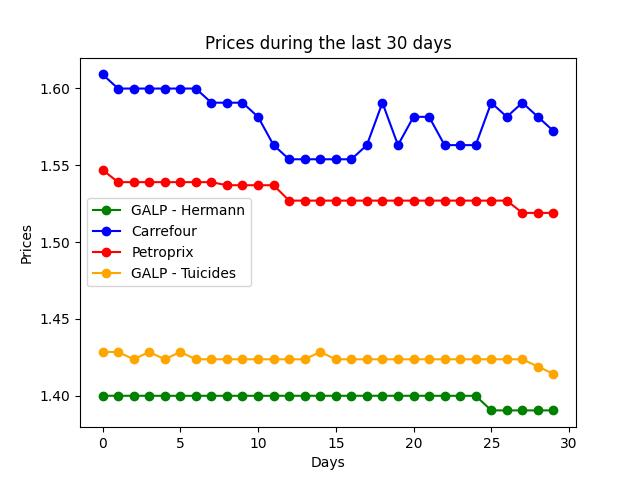
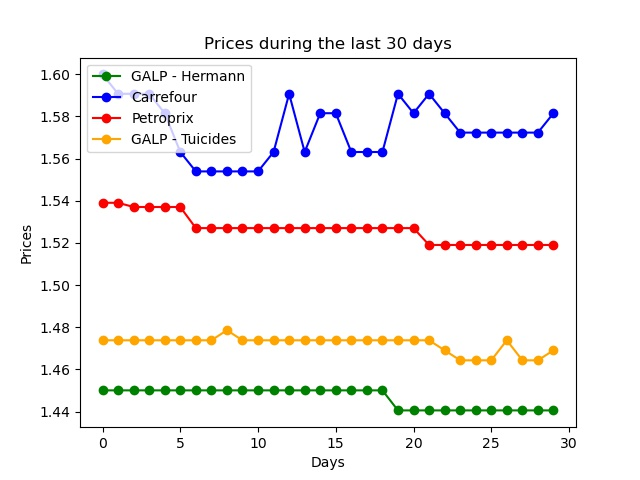
Add scripts to compute the cheaper hour and some improvements

diff --git a/calcular_la_hora_con_el_menor_precio.py b/calcular_la_hora_con_el_menor_precio.py
@@ -1,0 +1,113 @@
+import time
+from datetime import datetime
+import urllib
+import csv
+from tempfile import NamedTemporaryFile
+import shutil
+import requests
+
+def download_data():
+    ID_MUNICIPIO = 4521
+    ID_PRODUCTO = 1
+    URL = f"https://sedeaplicaciones.minetur.gob.es/ServiciosRESTCarburantes/PreciosCarburantes/EstacionesTerrestres/FiltroMunicipioProducto/{ID_MUNICIPIO}/{ID_PRODUCTO}"
+
+    urllib.request.urlretrieve(URL, "Data/gasoline.txt")
+
+    print(("Donwloading data..."))
+
+    file = open("Data/gasoline.txt", encoding="utf-8").read()
+    #encoding="mcbs" if running on windows
+
+    reintentos = 10
+    while '"ListaEESSPrecio":[]' in file and reintentos > 0:
+        print("[WARN] Los datos están vacios, descargando de nuevo...")
+        time.sleep(60)
+        urllib.request.urlretrieve(URL, "Data/gasoline.txt")
+        file = open("Data/gasoline.txt", encoding="utf-8").read()
+        reintentos -= 1
+
+    list_of_prices = file.split("{")
+
+    date = list_of_prices[1].split("\"")[3].replace("\\", "").split(" ")[0]
+
+    results = []
+
+    for x in list_of_prices[2:]:
+        data = x.replace("\"", "")\
+                .replace("},", "")\
+                .replace("\\", "")\
+                .replace("Ã³", "o")\
+                .replace("Ã¡","a")\
+                .replace("","")\
+                .replace("ó","o")\
+                .replace("Ã","A")\
+                .split("}],")[0]\
+                .split(",")
+        dictionary = {}
+        for i in range(len(data)):
+            item = data[i]
+            if "PrecioProducto" in item:
+                item = ".".join([item, data[i+1]])
+            key_value = item.split(":")
+            key = key_value[0]
+            if len(key_value) > 1:
+                value = "".join(key_value[1:])
+            if key == "Direccion" or key == "Rotulo":
+                dictionary[key] = value
+            elif key == "PrecioProducto":
+                dictionary[key] = float(value)
+        if dictionary:
+            results.append(dictionary)
+
+    return results, date
+
+
+def update_row_in_csv(hora, price, dia, headers, filename, nombre):
+    tempfile = NamedTemporaryFile(mode='w', delete=False, newline="")
+
+    with open(filename, 'r') as csvfile, tempfile:
+        reader = csv.DictReader(csvfile, fieldnames=headers)
+        writer = csv.DictWriter(tempfile, fieldnames=headers)
+        writer.writeheader()
+
+        for row in reader:
+            if (row[nombre] != nombre):
+                if row[nombre] == dia:
+                    row[hora] = price
+                    writer.writerow(row)
+                else:
+                    writer.writerow(row)
+
+    shutil.move(tempfile.name, filename)
+
+
+def compute_cheaper_hour(rotulo, direccion, nombre):
+    results, dia = download_data()
+    precio = round(float([item['PrecioProducto'] for item in results if
+                          (item['Rotulo'] == rotulo and item["Direccion"] == direccion)][0]), 3)
+
+    hora = datetime.strftime(datetime.today(), "%H")
+    minuto = "00" if int(datetime.today().minute) < 30 else "30"
+    fecha = "{}.{}".format(hora, minuto)
+
+    filename = "Data/cheaper_hour_{}.csv".format(nombre)
+
+    row_template = {
+        nombre: "", "00.00": "", "00.30": "", "01.00": "", "01.30": "", "02.00": "", "02.30": "", "03.00": "",
+        "04.30": "", "05.00": "", "06.30": "", "07.00": "", "07.30": "", "08.00": "", "08.30": "", "09.00": "",
+        "09.30": "", "10.00": "", "10.30": "", "11.00": "", "12.30": "", "13.00": "", "13.30": "", "14.00": "",
+        "14.30": "", "15.00": "", "15.30": "", "16.00": "", "16.30": "", "17.00": "", "17.30": "", "18.00": "",
+        "18.30": "", "19.00": "", "19.30": "", "20.00": "", "21.30": "", "22.00": "", "22.30": "", "23.00": "",
+        "23.30": ""}
+    headers = list(row_template.keys())
+    if hora == "00" and int(datetime.today().minute) < 30:
+        with open(filename, "w") as csvfile:
+            row = row_template
+            row[nombre] = dia
+            row[fecha] = precio
+            csvfile.writerow(row)
+    else:
+        update_row_in_csv(fecha, precio, dia, headers, filename, nombre)
+
+compute_cheaper_hour(rotulo='GALP', direccion='CALLE TUICIDES', nombre='tucidides')
+compute_cheaper_hour(rotulo='GALP', direccion='CALLE HERMAN HESSE', nombre='herman_hesse')

diff --git a/graphic_comparing_some_petrol_station.py b/graphic_comparing_some_petrol_station.py
@@ -3,9 +3,12 @@ import matplotlib.pyplot as plt
 # This script will be executed each day.
 print("[INFO] Updating the graphic of the comparison between Galp Tucidides, Galp Hernan Hesse, Carrefour and Petropix prices.")
 
-def compute_galp_price(original_price):
-    # Estamos suponiendo que estamos echando gasolina del 1 al 5 de cada mes donde Mapfre nos devuelve un 5%.
-    return original_price*0.95 - 0.1
+def compute_galp_price(date, original_price):
+    # Estamos suponiendo que estamos echando gasolina del 1 al 5 de cada mes donde Mapfre nos devuelve un 5%, y sino sería un 3%.
+    # A eso, habría que añadirle los 5 cent de descuento que ofrece GALP.
+    day = int(date[0:2])
+    discount = 0.95 if day <= 5 else 0.97
+    return original_price*discount - 0.05
 
 def load_data():
     galp_tuicides = []
@@ -17,8 +20,8 @@ def load_data():
         for line in lines:
             if line and "Date" not in line:
                 line = line.split(",")
-                galp_tuicides.append(compute_galp_price(float(line[1])))
-                galp_hermann.append(compute_galp_price(float(line[3])))
+                galp_tuicides.append(compute_galp_price(line[0], float(line[1])))
+                galp_hermann.append(compute_galp_price(line[0], float(line[3])))
                 # Con la tarjeta carrefour devuelve un 8% para compras en el carrefour
                 carrefour.append(float(line[4])*0.92)
                 petroprix.append(float(line[6]))

diff --git a/update_graphics_of_cheaper_hours.py b/update_graphics_of_cheaper_hours.py
@@ -1,0 +1,33 @@
+import matplotlib.pyplot as plt
+
+def load_data(name):
+    galp = []
+    with open("Data/cheaper_hour_{}.csv".format(name), "r") as csvfile:
+        lines = csvfile.read().split("\n")
+        for line in lines:
+            if line and name not in line:
+                line = line.split(",")
+                galp.append([float(price) for price in line[1:]])
+
+    return galp
+
+def plot_line_chart_of_comparisons(name: str):
+    galp = load_data(name)
+    headers = ["00.00","00.30","01.00","01.30","02.00","02.30","03.00","04.30","05.00","06.30","07.00","07.30","08.00","08.30","09.00","09.30","10.00","10.30","11.00","12.30","13.00","13.30","14.00","14.30","15.00","15.30","16.00","16.30","17.00","17.30","18.00","18.30","19.00","19.30","20.00","21.30","22.00","22.30","23.00","23.30"]
+
+    fig, ax = plt.subplots()
+    ax.plot(headers, galp[0], marker='o', label=f"GALP - {name.upper()}")
+    for day in galp[1:]:
+        ax.plot(headers, day, marker='o')
+
+    plt.title('Prices during the last 30 days')
+    plt.xlabel('Hours')
+    plt.xticks(rotation=90)
+    plt.ylabel('Prices')
+    plt.legend()
+    plt.savefig("Results/cheaper_hour_{}.jpg".format(name))
+    plt.close()
+    #plt.show()
+
+plot_line_chart_of_comparisons("tucidides")
+plot_line_chart_of_comparisons("herman_hesse")
